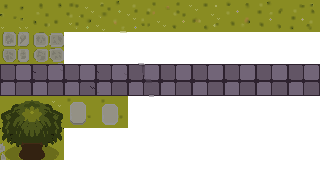
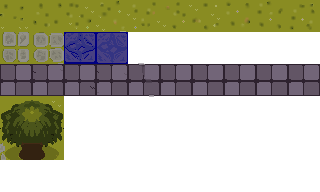
WIP on dungeon puzzle.  Updated boxes and barrells.

Changed region(s): [[0.1875, 0.5, 0.4062, 0.6875], [0.1875, 0.1562, 0.4062, 0.3438]]

diff --git a/js/world.js b/js/world.js
@@ -46,6 +46,7 @@ const TILE_KEY = 51;
 
 
 const TILE_BARREL = 77;
+const TILE_PUSHABLE_BOX = 78;
 const TILE_TREASURECHEST = 88;
 
 const TILE_GOBLIN_SPAWN = 90;
@@ -110,6 +111,9 @@ const TILE_DUNGEON_DOOR_BL = 212;
 const TILE_DUNGEON_DOOR_BC = 213; // a floor tile so we can walk through
 const TILE_DUNGEON_DOOR_BR = 214;
 const TILE_DUNGEON_DOOR_CEILING = 299; // the wall tile behind the door needs to not block the player so it's the same image but considered a floor tile
+const TILE_DUNGEON_WALL_1 = 215;
+const TILE_DUNGEON_WALL_2 = 216;
+const TILE_DUNGEON_WALL_3 = 217;
 
 var MAP_DATA = {
   fallDale: {
@@ -252,31 +256,31 @@ const WORLD_MAPS = {
     [202,208,208,208,208,208,208,208,208,208,208,208,208,208,201,208,208,208,208,208,208,208,208,208,208,203,208,208,208,208,208,208,208,208,208,208,208,208,208,208,208,208,208,208,203],
     [202,208,208,208,208,208,208,208,208,208,208,208,208,208,208,208,208,208,208,208,208, 93,208,208,208,203, 93,208,208,208,208,208, 93,208,208,208,208,208,208,208,208,208,208,208,203],
     [202,208,208,208,208,208,208,208,208,208,208,208,208,208,208,208,208,208,208,208,208,208,208,208,208,203,208,208,208,208,208,208,208,208,208,208,208,208,208,208,208,208,208,208,203],
-    [202,208,208, 93,208,208,208,208,208,208,208,208,208,208,200,200,200,299,200,200,200,200,200,299,200,200,200,200,200,299,200,200,200,200,200,200,200,200,200,299,200,200,200,200,200],
-    [202,208,208,208,208,208,208,208,208,208,208,208,208,208,202,201,209,210,211,201,201,202,209,210,211,201,201,201,209,210,211,201,203,201,201,201,201,201,209,210,211,201,201,201,203],
-    [202,208,208,208,208,208,208,208,208,208,208,208,208,208,202,201,212,213,214,201,201,202,212,213,214,201,201,201,212,213,214,201,203,201,201,201,201,201,212,213,214,201,201,201,203],
-    [202,208,208, 93,208,208,208,208,208,208,208,208,208,208,202,208,208,208,208,208,208,202,208,208,208,208,208,208,208,208,208, 88,203,208,208,208,208,208,208,208,208,208,208,208,203],
-    [202,208,208,208,208,208,208,208,208,208,208,208,208,208,202,208,208,208,208,208,208,202,208,208,208,208,208,208,208,208,208,208,203,208,208,208,208,208,208,208,208,208,208,208,203],
-    [202,208,208,208,208,208,208,208,208,208,208,208,208,208,202,208,208,208,208,208,208,202,208,208,208,208,208,208,208,208,208,208,203,208,208,208,208,208,208,208,208,208,208,208,203],
-    [202,208,208,208,208,208,208,208,208,208,208,208,208,208,202,208,208,208,208,208,208,202,208,208,208,208,208,208,208,208,208,208,203,208,208,208,208, 93,208,208,208, 93,208,208,203],
-    [202,208,208,208,208,208,208,208,208,208,208,208,208,208,202,208,208,208,208,208,208,202,208,208,208,208,208,208,208,208,208,208,203,208,208,208,208,208,208,208,208,208,208,208,203],
-    [202,208,208,208,208,208,208,208,208,208,208,208,208,208,202,208,208, 95,208,208,208,202,208,208,208,208,208,208,208,208,208,208,203,208,208,208,208,208,208,208,208,208,208,208,203],
-    [202,208,208,208,208,208,208,208,208,208,208,208,208,208,202, 88,208,208,208,208, 88,202,208,208,208,208,208,208,208,208,208,208,203,208,208,208,208,208,208,208,208,208,208,208,203],
+    [202,208,208, 93,208,208,208,208,208,208,208,208,208,208,200,200,200,299,200,200,200,200,200,299,200,200,200,200,200,299,200,200,200,200,299,200,200,200,200,200,200,200,200,200,200],
+    [202,208,208,208,208,208,208,208,208,208,208,208,208,208,202,201,209,210,211,201,201,202,209,210,211,201,201,201,209,210,211,201,202,209,210,211,201,201,201,201,201,201,201,201,203],
+    [202,208,208,208,208,208,208,208,208,208,208,208,208,208,202,201,212,213,214,201,201,202,212,213,214,201,201,201,212,213,214,201,202,212,213,214,207,201,201,201,201,217,201,201,203],
+    [202,208,208, 93,208,208,208,208,208,208,208,208,208,208,202,208,208,208,208,208,208,202,208,208,208,208,208,208,208,208,208, 88,202,208,208,208,217,208,208, 78,208,217, 78,208,203],
+    [202,208,208,208,208,208,208,208,208,208,208,208,208,208,202,208,208,208,208,208,208,202,208,208,208,208,208,208,208,208,208,208,202,208,208,  7,217,208,208,208,208,217,208,208,203],
+    [202,208,208,208,208,208,208,208,208,208,208,208,208,208,202,208,208,208,208,208,208,202,208,208,208,208,208,208,208,208,208,208,202,208,208,208,215,208,208,208,  7,217,208,208,203],
+    [202,208,208,208,208,208,208,208,208,208,208,208,208,208,202,208,208,208,208,208,208,202,208,208,208,208,208,208,208,208,208,208,202,208,208,208,208,208,208,208,208,215,208,208,203],
+    [202,208,208,208,208,208,208,208,208,208,208,208,208,208,202,208,208,208,208,208,208,202,208,208,208,208,208,208,208,208,208,208,202,  7,208,208,208,208,216,208,208,208,208,208,203],
+    [202,208,208,208,208,208,208,208,208,208,208,208,208,208,202,208,208, 95,208,208,208,202,208,208,208,208,208,208,208,208,208,208,202,208,208,  7,208,208,208,208,216,208, 78,208,203],
+    [202,208,208,208,208,208,208,208,208,208,208,208,208,208,202, 88,208,208,208,208, 88,202,208,208,208,208,208,208,208,208,208,208,202,208,208,208,208,208,  7,208,208,208,208,208,203],
     [200,200,200,200,299,200,200,200,200,200,200,200,200,200,200,200,200,200,200,200,200,200,200,200,200,200,200,200,200,200,200,200,200,200,200,200,200,200,200,200,200,299,200,200,200],
     [202,201,201,209,210,211,201,201,201,203,201,201,201,201,202,201,201,201,201,201,201,201,201,201,201,201,201,201,201,203,201,201,201,201,201,201,201,203,201,201,209,210,211,201,203],
     [202,201,201,212,213,214,201,201,201,203,201,201,201,201,202,201,201,201,201,201,201,201,201,201,201,201,201,201,201,203,201,201,201,201,201,201,201,203,201,201,212,213,214,201,203],
     [202,208,208,208,208,208,208,208,208,203,208,208,208,208,202,208,208,208,208,208,208,208,208,208,208,208,208,208,208,203,208, 88,208, 88,208, 88,208,203,208,208,208,208,208,208,203],
     [202,208,208,208,208,208,208,208,208,201,208,208,208,208,202,208,208,208,208,208,208,208,208,208,208,208,208,208,208,203,208,208,208,208,208, 94,208,203,208,208,208,208,208,208,203],
     [202,208,208,208,208,208,208,208,208,201,208,208,208,208,202,208,208,208,208,208,208,208,208,208,208,208,208,208,208,203,208, 88,208, 88,208, 88,208,203,208,208,208,208,208,208,203],
-    [202,208,208,208,208,208,208,208,208,208,208,208,208,208,202,208,208,208,208,208,208,208,208,208, 96,208,208,208,208,203,208,208,208,208,208,208,208,203,208,208,208,208,208,208,203],
+    [202,208,208,208,208,208,208,208,208,208,208,208,208,208,202,208,208,208,208,208,208,208,208,208, 96,208,208,208,208,203,208,208,208,208,208,208,208,203,208, 78,208,208,208,208,203],
     [202,208,208, 93,208,208,208,208,208,208,208,208, 93,208,202,208,208,208,208,208,208,208,208,208,208,208,208,208,208,203,200,200,200,200,299,200,200,203,208,208,208,208,208,208,203],
     [202,208,208,208,208,208,208,208,208,203,208,208,208,208,202,208,208,208,208,208,208,208,208,208,208,208,208,208,208,203,201,201,201,209,210,211,201,203,208,208, 93,208, 93,208,203],
     [202,208,208,208,208,208,208,208,208,203,208,208,208,208,202,208,208,208,208,208,208,208,208,208,208,208,208,208,208,203,201,201,201,212,213,214,201,203,208,208,208,208,208,208,203],
     [202,200,200,200,200,200,200,200,200,200,200,299,200,200,200,200,299,200,200,200,200,200,200,200,200,200,200,200,200,200,208,208,208,208,208,208,208,203,208,208,208,208,208,208,203],
     [202,201,201,201,201,201,201,201,201,203,209,210,211,201,202,209,210,211,203,201,201,201,201,201,201,201,201,201,201,201,208,208,208,208,208,208,208,203,208,208,208,208,208,208,203],
-    [202,201,201,201,201,201,201,201,201,203,212,213,214,201,202,212,213,214,203,201,201,201,201,201,201,201,201,201,201,201,208,208,208,208,208,208,208,203,208,208,208,208,208,208,203],
+    [202,201,201,201,201,201,201,201,201,203,212,213,214,201,202,212,213,214,203,201,201,201,201,201,201,201,201,201,201,201,208,208,208,208, 77, 77,208,203,208,208,208,208,208,208,203],
     [202,208,208,208,208,208,208,208,208,201,208,208,208,208,202,208,208,208,203,208,208,208,208,208,208,208,208,208,208,208,208,208,208,208,208,208,208,201,208,208,208,208,208,208,203],
-    [202,208,208,208,208,208,208,208,208,201,208,208,208,208,202,208,208,208,203,208,208,208,208,208,208,208,208,208,208,208,208,208,208,208,208,208,208,201,208,208,208,208,208,208,203],
+    [202,208,208,208,208,208,208,208,208,201,208,208,208,208,202,208,208,208,203,208,208,208,208,208,208,208,208,208,208,208,208,208,208,208,208,208,208,201,208,208, 78,208,208,208,203],
     [202,208,208,208,208,208,208,208,208,208,208,208,208,208,202,208,208,208,203,208,208,208,208,208,208,208,208,208,208,208,208,208,208,208,208,208,208,208,208,208,208,208, 88,208,203],
     [202,208,208, 95,208,208,208,208,208,208,208,208,208, 92,208,208,208, 93,203,208,208,208,208,208,208,208,208,208,208,208,208,208,208,208,208,208,208,208,208,208,208,208,208,208,203],
     [202,208,208,208,208,208,208,208,208,203,208,208,208,208,208,208,208,208,203,208,208,208,208,208,208,208,208,208,208,208,208,208,208,208,208,208,208,203,208,208,208,208, 88,208,203],
@@ -490,6 +494,17 @@ function getMonsterSpawnTiles() {
   return spawns;
 }
 
+function checkPressurePlate() {
+  for (let obj of movableBoxes) {
+    const col = Math.floor(obj.x / TILE_W);
+    const row = Math.floor(obj.y / TILE_H);
+    if (backgroundGrid[row][col] === TILE_PRESSURE_PLATE) {
+      // Open the linked door
+      backgroundGrid[doorRow][doorCol] = TILE_UNLOCKED_DOOR;
+      collisionGrid[doorRow][doorCol].isWalkable = true;
+    }
+  }
+}
 
 // this is used only on first load not when switching maps
 function checkTileTypeForEntitySpawners(tileType, col, row) {
@@ -641,6 +656,21 @@ function checkTileTypeForConnectors(tileType, x, y) {
   return null;
 }
 
+function makePushableBox(col, row) {
+  const x = col * TILE_W, y = row * TILE_H;
+  return {
+    // grid coords
+    x: col, y: row,
+    // render size
+    width: TILE_W, height: TILE_H,
+    // render position (pixels)
+    drawX: x, drawY: y,
+    // movement fields your update code expects
+    isMoving: false, targetX: x, targetY: y
+  };
+}
+
+
 function checkTileTypeForRandomization(tileType) {
   if (tileType === TILE_GRASS) {
     const options = 9;
@@ -673,7 +703,7 @@ function checkTileTypeForRandomization(tileType) {
   
 
   if (tileType === TILE_PRESSURE_PLATE) {
-    return { sX: 64, sY: 96 };
+    return { sX: 64, sY: 32 };
   }
   return null;
 }
@@ -693,6 +723,24 @@ const TILE_ENTITY_MAP = {
         npcs.push(e); // fixme: this isn't really an NPC but it works
         return e;
   },
+
+  [TILE_BARREL]: ({ x, y }) => {
+    const e = new Destructible("Barrel", x, y);
+    destructibles.push(e);
+    return e;
+  },
+
+  /*[TILE_PUSHABLE_BOX]: ({ x, y }) => {
+    const col = Math.floor(x / TILE_W);
+    const row = Math.floor(y / TILE_H);
+    const box = new PushableBlock(col, row);
+    box.width = TILE_W;
+    box.height = TILE_H;
+    box.drawX = x;
+    box.drawY = y;
+    pushableBlocks.push(box);
+    return box;
+  }, */
 
   [TILE_GOBLIN_SPAWN]: ({ x, y }) => createMonster({
     name: "Goblin", x, y, damage: 5, maxHealth: 30, type: "melee"
@@ -785,6 +833,9 @@ function spawnEntitiesFromTiles() {
   const grid = backgroundGrid;
   enemies.length = 0;
   npcs.length = 0;
+  destructibles.length = 0;
+  plateToDoorLinks = {};
+  pushableBlocks.length = 0;
 
   for (let row = 0; row < grid.length; row++) {
     for (let col = 0; col < grid[row].length; col++) {
@@ -802,6 +853,16 @@ function spawnEntitiesFromTiles() {
             }
         }
 
+        if (tile === TILE_PUSHABLE_BOX) {
+              const box = makePushableBox(col, row);
+              pushableBlocks.push(box);
+            //Replace the tile underneath with the correct floor tile
+              grid[row][col] = (currentMapKey === "SkeletonKingLair")
+                ? TILE_DUNGEON_WALL_CENTER  // (your dungeon floor)
+                : TILE_GRASS;
+            continue; // done with this cell
+        }
+
         if (entity instanceof Monster) {
           enemies.push(entity);
           // fill empty space with proper tile
@@ -813,6 +874,10 @@ function spawnEntitiesFromTiles() {
           }
         } else if (entity instanceof NPC) {
           npcs.push(entity);
+        } else if (entity instanceof Destructible) {
+          grid[row][col] = (currentMapKey === "SkeletonKingLair")
+              ? TILE_DUNGEON_WALL_CENTER
+              : TILE_GRASS;
         }
       }
     }

diff --git a/js/objects.js b/js/objects.js
@@ -10,6 +10,24 @@ const pushableBlocks = [
   }
 ];
 
+let plateToDoorLinks = {}; // "col,row" -> "doorCol,doorRow"
+
+// Finds the nearest LOCKED/UNLOCKED door tile to a plate.
+// Prefers a LOCKED door (49) at link time.
+function findNearestDoorForPlate(plateCol, plateRow) {
+  let best = null, bestDist = Infinity;
+  for (let r = 0; r < TILE_ROWS; r++) {
+    for (let c = 0; c < TILE_COLS; c++) {
+      const t = backgroundGrid[r][c];
+      if (t === TILE_LOCKED_DOOR || t === TILE_UNLOCKED_DOOR) {
+        const d = Math.abs(c - plateCol) + Math.abs(r - plateRow);
+        const isBetter = d < bestDist || (d === bestDist && t === TILE_LOCKED_DOOR);
+        if (isBetter) { best = { c, r, t }; bestDist = d; }
+      }
+    }
+  }
+  return best; // {c, r, t} or null
+}
 
 function isTileOccupiedByPushBlock(tileX, tileY) {
   return pushableBlocks.some(block => block.x === tileX && block.y === tileY);
@@ -116,20 +134,49 @@ function isCrateOnPlate(plateCol, plateRow) {
 }
 
 function updatePressurePlates() {
-  for (let row = 0; row < TILE_ROWS; row++) {
-    for (let col = 0; col < TILE_COLS; col++) {
-      // this next line can bug out if there's missing data in the array
-      if (backgroundGrid[row][col] === TILE_PRESSURE_PLATE) {
-        const isOnPlate = pushableBlocks.some(block => block.x === col && block.y === row);
-
-        if (isOnPlate) {
-          backgroundGrid[1][12] = TILE_TREE;
-          console.log(`Pressure plate at (${col}, ${row}) is pressed.`);
+  // 1) Build links once per map: each plate -> nearest door
+  if (!Object.keys(plateToDoorLinks).length) {
+    for (let row = 0; row < TILE_ROWS; row++) {
+      for (let col = 0; col < TILE_COLS; col++) {
+        if (backgroundGrid[row][col] === TILE_PRESSURE_PLATE) {
+          const door = findNearestDoorForPlate(col, row);
+          if (door && door.t === TILE_LOCKED_DOOR) {
+            plateToDoorLinks[`${col},${row}`] = `${door.c},${door.r}`;
+          }
         }
       }
     }
   }
+
+  // 2) Determine which linked doors should be open this frame
+  const doorsToOpen = new Set();
+  for (const plateKey of Object.keys(plateToDoorLinks)) {
+    const [pCol, pRow] = plateKey.split(",").map(Number);
+    const pressed = pushableBlocks.some(b => b.x === pCol && b.y === pRow);
+    const doorKey = plateToDoorLinks[plateKey];
+    if (pressed) doorsToOpen.add(doorKey);
+  }
+
+  // 3) Apply open/close to linked doors
+  for (const plateKey of Object.keys(plateToDoorLinks)) {
+    const doorKey = plateToDoorLinks[plateKey];
+    const [dCol, dRow] = doorKey.split(",").map(Number);
+    const shouldOpen = doorsToOpen.has(doorKey);
+
+    if (shouldOpen) {
+      backgroundGrid[dRow][dCol] = TILE_UNLOCKED_DOOR;
+      if (collisionGrid[dRow] && collisionGrid[dRow][dCol]) {
+        collisionGrid[dRow][dCol].isWalkable = true;
+      }
+    } else {
+      backgroundGrid[dRow][dCol] = TILE_LOCKED_DOOR;
+      if (collisionGrid[dRow] && collisionGrid[dRow][dCol]) {
+        collisionGrid[dRow][dCol].isWalkable = false;
+      }
+    }
+  }
 }
+
 
 
 

diff --git a/js/imageLoading.js b/js/imageLoading.js
@@ -141,12 +141,14 @@ function loadImages() {
         {tileType: TILE_LAMP, theFile: "lamp.png", sX: "0", sY: "0",options: 0},
         {tileType: TILE_WATER, theFile: "water.png", sX: "0", sY: "0",options: 0},
         {tileType: TILE_CLIFF, theFile: "cliff.png", sX: "64", sY: "96",options: 0},
-        {tileType: TILE_PRESSURE_PLATE, theFile: "grass.png", sX: "96", sY: "128",options: 0},
+        {tileType: TILE_PRESSURE_PLATE, theFile: "grass.png", sX: "64", sY: "32",options: 0},
         {tileType: TILE_DIRT, theFile: "dirt.png", sX: "32", sY: "32",options: 0},
         {tileType: TILE_DUNGEON_ENTRANCE, theFile: "wall.png", sX: 0, sY: 0, options: 0},
         {tileType: TILE_DUNGEON_WALL_TOP, theFile: "wall.png", sX: 128, sY: 0, options: 0},
-        // same as above but used as a floor tile:
         {tileType: TILE_DUNGEON_DOOR_CEILING, theFile: "wall.png", sX: 128, sY: 0, options: 0},
+        {tileType: TILE_DUNGEON_WALL_1, theFile: "wall.png", sX: 32, sY: 0, options: 0},
+        {tileType: TILE_DUNGEON_WALL_2, theFile: "wall.png", sX: 64, sY: 0, options: 0},
+        {tileType: TILE_DUNGEON_WALL_3, theFile: "wall.png", sX: 32, sY:32, options: 0},
         {tileType: TILE_DUNGEON_WALL_BOTTOM, theFile: "wall.png", sX: 128, sY: 32, options: 0},
         {tileType: TILE_DUNGEON_WALL_LEFT, theFile: "wall.png", sX: 96, sY: 32, options: 0},
         {tileType: TILE_DUNGEON_WALL_RIGHT, theFile: "wall.png", sX: 160, sY: 32, options: 0},
